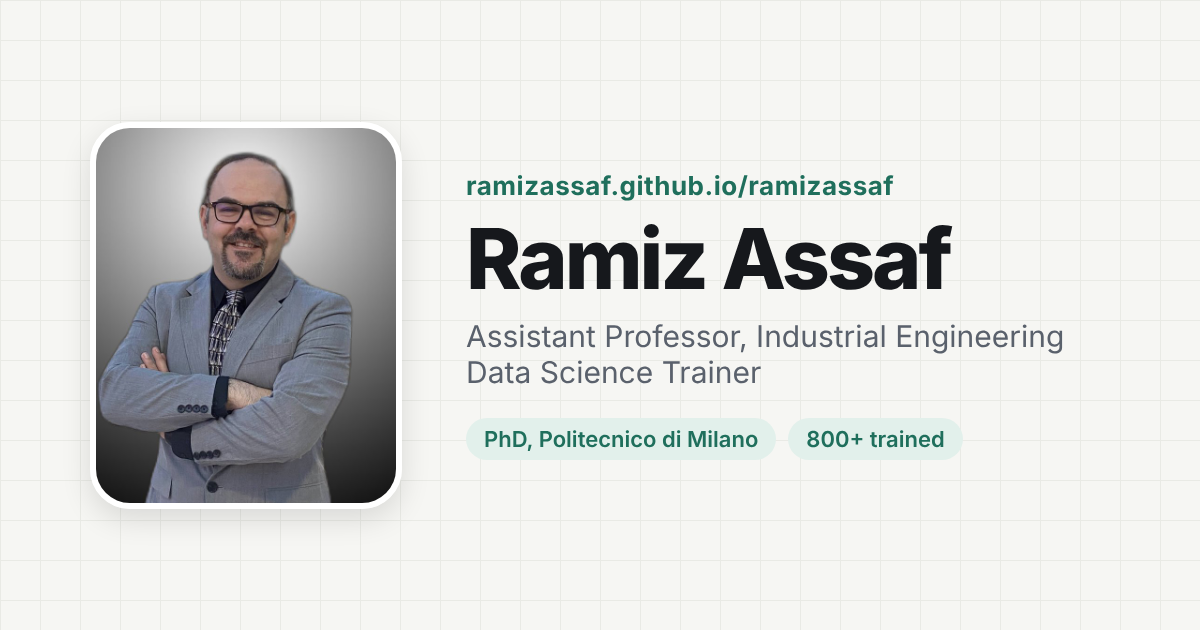
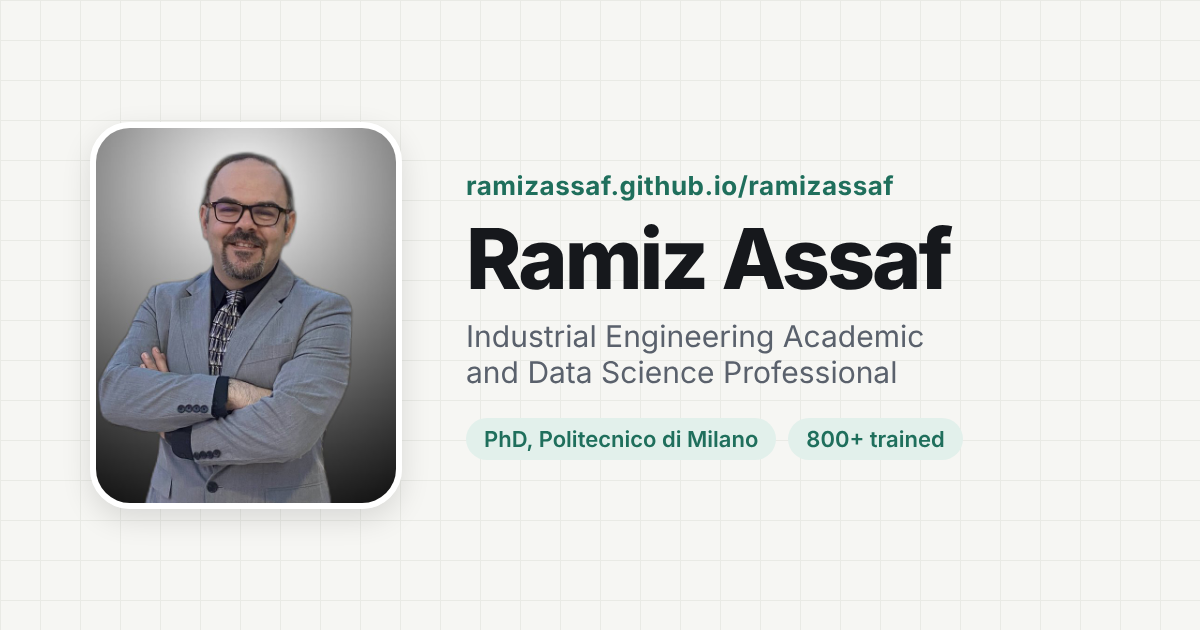
Add headline, defense committees, and Arabic slide deck
Claude-Session: https://claude.ai/code/session_01GDLQtFyegFYvjNTKCe8tyV

Changed region(s): [[0.37, 0.5127, 0.8942, 0.6333]]

diff --git a/index.html b/index.html
@@ -3,10 +3,10 @@
 <head>
 <meta charset="utf-8">
 <meta name="viewport" content="width=device-width, initial-scale=1">
-<title>Dr. Ramiz Assaf | Industrial Engineering Academic and Data Science Trainer</title>
+<title>Dr. Ramiz Assaf | Industrial Engineering Academic and Data Science Professional</title>
 <meta name="description" content="Dr. Ramiz Assaf, Assistant Professor of Industrial Engineering and Coordinator of the Master of Engineering Management program at An-Najah National University. PhD, Politecnico di Milano. Data science trainer.">
 <meta property="og:type" content="website">
-<meta property="og:title" content="Dr. Ramiz Assaf | Industrial Engineering Academic and Data Science Trainer">
+<meta property="og:title" content="Dr. Ramiz Assaf | Industrial Engineering Academic and Data Science Professional">
 <meta property="og:description" content="Assistant Professor at An-Najah National University. PhD, Politecnico di Milano. 800+ professionals trained in data analytics. Interactive CV with live demos.">
 <meta property="og:image" content="https://ramizassaf.github.io/ramizassaf/og.png">
 <meta property="og:url" content="https://ramizassaf.github.io/ramizassaf/">
@@ -283,8 +283,8 @@ input[type="range"] { width: 100%; accent-color: var(--accent); }
 @media (max-width: 600px) { .pub { grid-template-columns: 1fr auto; } .pub .yr { grid-column: 1 / -1; padding: 0; } }
 
 /* Supervision */
-.sup-stats { display: grid; grid-template-columns: repeat(3, 1fr); gap: 14px; margin-bottom: 20px; }
-@media (max-width: 600px) { .sup-stats { grid-template-columns: 1fr; } }
+.sup-stats { display: grid; grid-template-columns: repeat(4, 1fr); gap: 14px; margin-bottom: 20px; }
+@media (max-width: 860px) { .sup-stats { grid-template-columns: 1fr 1fr; } }
 .chips { display: flex; gap: 8px; flex-wrap: wrap; margin-bottom: 18px; }
 .chip { padding: 7px 14px; border-radius: 999px; border: 1px solid var(--line); background: var(--card); color: var(--muted); font: inherit; font-size: .86rem; font-weight: 500; cursor: pointer; }
 .chip:hover { color: var(--text); border-color: var(--accent); }
@@ -373,6 +373,7 @@ html[lang="ar"] body { font-family: "IBM Plex Sans Arabic", sans-serif; }
 h1, h2, h3, .num, .logo b, .tt, .big, .rv-score .big, .stat .num { font-family: "Changa", "IBM Plex Sans Arabic", sans-serif; }
 .kicker, .when, .chart text, .pub .yr, code { font-family: "IBM Plex Mono", monospace !important; }
 .hero::before { display: none; }
+.headline { margin: 10px 0 4px; font-family: "Changa", sans-serif; font-weight: 600; font-size: clamp(1.15rem, 2.4vw, 1.5rem); color: var(--text); line-height: 1.3; }
 .hl { background: linear-gradient(transparent 62%, var(--amber) 62%, var(--amber) 92%, transparent 92%); padding: 0 .08em; }
 .card, .stat, .tile, .icon-btn, .btn { border: 2px solid var(--edge); }
 .card { box-shadow: var(--shadow); border-radius: 14px; }
@@ -488,7 +489,7 @@ footer { border-top: 0; }
 
 <nav>
   <div class="container nav-inner">
-    <a class="logo" href="#home"><span class="logo-ic">⚙</span><span><b>Dr. Ramiz Assaf</b><small data-i18n="logo_s">Industrial Engineering · Data Science</small></span></a>
+    <a class="logo" href="#home"><span class="logo-ic">⚙</span><span><b>Dr. Ramiz Assaf</b><small data-i18n="logo_s">Industrial Engineering Academic · Data Science Professional</small></span></a>
     <div class="nav-links">
       <a href="#about" data-i18n="nav_about">About</a>
       <a href="#experience" data-i18n="nav_exp">Experience</a>
@@ -512,6 +513,7 @@ footer { border-top: 0; }
       <div>
         <span class="eyebrow"><span class="dot"></span><span data-i18n="open">PhD, Politecnico di Milano</span></span>
         <h1><span class="hl" data-i18n="name">Ramiz Assaf</span></h1>
+        <p class="headline" data-i18n="headline">Industrial Engineering Academic and Data Science Professional</p>
         <div class="typed"><span data-i18n="iam">I am</span> <b id="typed"></b><span class="caret"></span></div>
         <p class="lead" data-i18n="lead">Assistant Professor of Industrial Engineering and Coordinator of the Master of Engineering Management program at An-Najah National University. I train engineers and professionals in data analytics with Excel, Python, SQL, Tableau, and Alteryx.</p>
         <div class="cta">
@@ -543,7 +545,7 @@ footer { border-top: 0; }
       <a class="tile reveal" href="#about"><span class="ti">👤</span><span class="tt" data-i18n="t_about">About me</span><span class="ts" data-i18n="t_about_s">Profile, roles, and languages</span><span class="ta">→</span></a>
       <a class="tile reveal" href="#experience"><span class="ti">💼</span><span class="tt" data-i18n="t_exp">Experience</span><span class="ts" data-i18n="t_exp_s">14+ years in academia and training</span><span class="ta">→</span></a>
       <a class="tile reveal" href="#research"><span class="ti">📊</span><span class="tt" data-i18n="t_res">Research</span><span class="ts" data-i18n="t_res_s">1,849 citations · h-index 20</span><span class="ta">→</span></a>
-      <a class="tile reveal" href="#supervision"><span class="ti">🎓</span><span class="tt" data-i18n="t_sup">Thesis supervision</span><span class="ts" data-i18n="t_sup_s">16 theses supervised</span><span class="ta">→</span></a>
+      <a class="tile reveal" href="#supervision"><span class="ti">🎓</span><span class="tt" data-i18n="t_sup">Thesis supervision</span><span class="ts" data-i18n="t_sup_s">16 supervised · 20+ defense committees</span><span class="ta">→</span></a>
       <a class="tile reveal" href="#services"><span class="ti">🤝</span><span class="tt" data-i18n="t_svc">Services</span><span class="ts" data-i18n="t_svc_s">Training, consulting, collaboration</span><span class="ta">→</span></a>
       <a class="tile reveal" href="#projects"><span class="ti">🧩</span><span class="tt" data-i18n="t_proj">Projects</span><span class="ts" data-i18n="t_proj_s">Open-source tools and web apps</span><span class="ta">→</span></a>
       <a class="tile reveal" href="#games"><span class="ti">🎮</span><span class="tt" data-i18n="t_games">Interactive teaching</span><span class="ts" data-i18n="t_games_s">Dynamic HTML slides and 3 learning games</span><span class="ta">→</span></a>
@@ -677,12 +679,13 @@ footer { border-top: 0; }
     <a class="back" href="#home" data-i18n="back">← Home</a>
     <div class="sec-head reveal">
       <div class="kicker">supervision</div>
-      <h2 data-i18n="sup_h">Thesis supervision</h2>
-      <p data-i18n="sup_p">Theses I supervised or co-supervised at An-Najah National University, in AI adoption, operations, quality, and sustainability.</p>
+      <h2 data-i18n="sup_h">Thesis supervision and examination</h2>
+      <p data-i18n="sup_p">Theses I supervised or co-supervised at An-Najah National University, in AI adoption, operations, quality, and sustainability. I have also served on more than 20 master’s thesis defense committees.</p>
     </div>
     <div class="sup-stats">
       <div class="stat reveal"><div class="num" data-count="16" id="supN">16</div><div class="lbl" data-i18n="ss1">Theses supervised</div></div>
       <div class="stat reveal"><div class="num" data-count="6" id="supAI">6</div><div class="lbl" data-i18n="ss2">On AI and machine learning</div></div>
+      <div class="stat reveal"><div class="num" data-count="20" data-suffix="+">20+</div><div class="lbl" data-i18n="ss4">Master’s thesis defense committees</div></div>
       <div class="stat reveal"><div class="num" data-count="2017">2017</div><div class="lbl" data-i18n="ss3">Supervising since</div></div>
     </div>
     <div class="chips" id="supChips"></div>
@@ -1003,8 +1006,8 @@ const AR = {
   cdf_t: "تقريب دالة التوزيع الطبيعي التراكمية", cdf_s: "تقريب Φ(x) بقطع مستقيمة على الفترة [−4، 4]. كلما زادت القطع قلّ الخطأ. هذا العرض يستخدم نقاطاً متساوية التباعد، وورقتي البحثية تحسّن مواقعها بطريقة minimax.",
   segs: "عدد القطع", maxerr: "أقصى خطأ مطلق", argerr: "عند x =", cdf_note: "الاستخدام: حساب الاحتمالات بسرعة في الأنظمة المدمجة وجداول البيانات دون مكتبة إحصائية.",
   approx: "التقريب الخطي", error: "الخطأ",
-  nav_sup: "الإشراف", sup_h: "الإشراف على الرسائل", sup_p: "رسائل أشرفت أو شاركت في الإشراف عليها في جامعة النجاح الوطنية، في تبني الذكاء الاصطناعي والعمليات والجودة والاستدامة.",
-  ss1: "رسالة بإشرافي", ss2: "عن الذكاء الاصطناعي وتعلم الآلة", ss3: "أشرف منذ عام",
+  nav_sup: "الإشراف", sup_h: "الإشراف ومناقشة الرسائل", sup_p: "رسائل أشرفت أو شاركت في الإشراف عليها في جامعة النجاح الوطنية، في تبني الذكاء الاصطناعي والعمليات والجودة والاستدامة. كما شاركت في أكثر من 20 لجنة لمناقشة رسائل الماجستير.",
+  ss1: "رسالة بإشرافي", ss2: "عن الذكاء الاصطناعي وتعلم الآلة", ss3: "أشرف منذ عام", ss4: "لجنة مناقشة رسائل ماجستير",
   nav_games: "الألعاب", games_h: "التدريس التفاعلي", games_p: "شرائح محاضرات HTML تفاعلية وألعاب في المتصفح أبنيها لمساقاتي. كل مثال يولّد أرقاماً جديدة، فيتدرب الطلاب على الطريقة لا على الإجابة.",
   play: "العب ↗", games_note: "كل لعبة ملف HTML واحد. يُحفظ التقدم في متصفح اللاعب فقط.",
   g1_c: "تدريب تحليل البيانات", g1_d: "شجرة مهارات تنقل المتعلم من VLOOKUP إلى المصفوفات الديناميكية والتواريخ. 9 وحدات تغطي 54 دالة في Excel على أوراق عمل حية.",
@@ -1020,9 +1023,9 @@ const AR = {
   tc_h: "الاقتباسات حسب المحور", tc_s: "مجموع اقتباسات Google Scholar لأوراق كل محور.", vn_h: "أبرز جهات النشر", vn_s: "مجلات ومؤتمرات نُشرت فيها ورقتان أو أكثر.",
   ca_h: "أكثر الباحثين المشاركين", ca_s: "أوراق مشتركة. قوائم المؤلفين الطويلة مختصرة في Scholar، فالأعداد حد أدنى.",
   rv_p: "دورتي المنشورة للمهندسين والمحللين المنتقلين إلى العمل بالبيانات.", rv_n: "من 628 مراجعة",
-  slides: "شرائح تعريفية", back: "← الرئيسية", tiles_h: "استكشف", tiles_p: "اضغط على أي مربع لفتح القسم.", logo_s: "هندسة صناعية · علم البيانات",
+  slides: "شرائح تعريفية", back: "← الرئيسية", tiles_h: "استكشف", tiles_p: "اضغط على أي مربع لفتح القسم.", logo_s: "أكاديمي هندسة صناعية · متخصص علم بيانات", headline: "أكاديمي في الهندسة الصناعية ومتخصص في علم البيانات",
   t_about: "نبذة عني", t_about_s: "الملف الشخصي والأدوار واللغات", t_exp: "الخبرات", t_exp_s: "أكثر من 14 عاماً في الجامعات والتدريب",
-  t_res: "البحث العلمي", t_res_s: "1,849 اقتباس · h-index 20", t_sup: "الإشراف على الرسائل", t_sup_s: "16 رسالة بإشرافي",
+  t_res: "البحث العلمي", t_res_s: "1,849 اقتباس · h-index 20", t_sup: "الإشراف على الرسائل", t_sup_s: "16 رسالة بإشرافي · أكثر من 20 لجنة مناقشة",
   t_svc: "الخدمات", t_svc_s: "تدريب واستشارات وتعاون بحثي", t_proj: "المشاريع", t_proj_s: "أدوات وتطبيقات مفتوحة المصدر",
   t_games: "التدريس التفاعلي", t_games_s: "شرائح HTML تفاعلية و3 ألعاب تعلّم", t_skills: "المهارات", t_skills_s: "البيانات والهندسة والتدريس",
   t_contact: "تواصل", t_contact_s: "البريد وLinkedIn وScholar", t_demo: "عروض حية", t_demo_s: "أدوات نقطة التعادل والتوزيع الطبيعي",
@@ -1544,7 +1547,7 @@ const strip = h => String(h).replace(/<[^>]+>/g, "").replace(/\s+/g, " ").trim()
 function cvMarkdown() {
   const L = [];
   L.push("# Dr. Ramiz Assaf", "",
-    "Assistant Professor of Industrial Engineering | Coordinator, Master of Engineering Management | Data Science Trainer", "",
+    "Industrial Engineering Academic and Data Science Professional", "", "Assistant Professor of Industrial Engineering | Coordinator, Master of Engineering Management | Data Science Trainer", "",
     "Nablus, Palestine | ramizassaf@najah.edu | ramizassaf@gmail.com", "",
     "LinkedIn: https://www.linkedin.com/in/ramiz-assaf-529610353", "",
     "Google Scholar: https://scholar.google.com/citations?user=yDDnd50AAAAJ", "",
@@ -1571,7 +1574,7 @@ function cvMarkdown() {
   L.push("", "## Research", "", `- Google Scholar: 1,849 citations, h-index 20, i10-index 26, ${PUBS.length} publications`, "", "### Selected Publications", "");
   const sel = [...PUBS].sort((a, b) => b.c - a.c).slice(0, 10);
   sel.forEach(x => L.push(`- ${x.a.replace(", ...", " et al.")} (${x.y || "n.d."}). ${x.t}. ${x.v}.`));
-  L.push("", "## Thesis Supervision", "", `- Supervised or co-supervised ${THESES.length} master's theses at An-Najah National University`);
+  L.push("", "## Thesis Supervision", "", `- Supervised or co-supervised ${THESES.length} master's theses at An-Najah National University`, "- Served on more than 20 master's thesis defense committees");
   THESES.slice(0, 8).forEach(t => L.push(`- ${t.t}${t.year ? " (" + t.year + ")" : ""}`));
   L.push("", "## Teaching Innovation", "",
     "- Dynamic HTML lecture slides (built with Claude): Week 1, Excel for Engineering Economy, 29 slides with worked examples and quizzes that generate new numbers on demand",
@@ -1595,31 +1598,32 @@ function deckHTML() {
   const e = t => String(t).replace(/&/g, "&amp;").replace(/</g, "&lt;");
   let photo = new URL("photo.jpg", location.href).href;
   try { const im = document.querySelector('img[src="photo.jpg"]'); const c = document.createElement("canvas"); c.width = im.naturalWidth; c.height = im.naturalHeight; c.getContext("2d").drawImage(im, 0, 0); photo = c.toDataURL("image/jpeg", 0.85); } catch (err) { /* keep URL */ }
+  const AR = lang === "ar", T = (en, ar) => AR ? ar : en, L = AR ? "ar" : "en";
   const top = [...PUBS].sort((a, b) => b.c - a.c).slice(0, 3);
-  const themes = Object.keys(RTHEMES).map(k => [RTHEMES[k].en, PUBS.filter(p => p.th.includes(k)).length]).sort((a, b) => b[1] - a[1]).slice(0, 6);
+  const themes = Object.keys(RTHEMES).map(k => [RTHEMES[k][L], PUBS.filter(p => p.th.includes(k)).length]).sort((a, b) => b[1] - a[1]).slice(0, 6);
   const mx = themes[0][1];
   const S = [];
-  S.push(`<section class="s title"><div class="tl"><div class="pill">Industrial Engineering · Data Science</div><h1><span class="hl">Dr. Ramiz Assaf</span></h1><p class="big">Assistant Professor of Industrial Engineering<br>Coordinator, Master of Engineering Management<br>An-Najah National University</p></div><img src="${photo}" alt=""></section>`);
-  S.push(`<section class="s"><h2>Who I am</h2><ul class="lst"><li>Industrial engineer and data science trainer based in Nablus, Palestine</li><li>PhD, Politecnico di Milano. MEng, Engineering Management. BSc, Industrial Engineering</li><li>14+ years teaching at universities in Palestine and Saudi Arabia</li><li>Goal: bridge engineering and data-driven decision making</li></ul></section>`);
-  S.push(`<section class="s"><h2>By the numbers</h2><div class="kp"><div><b>14+</b>years teaching</div><div><b>800+</b>professionals trained</div><div><b>94%</b>training satisfaction</div><div><b>1,849</b>citations</div><div><b>${PUBS.length}</b>publications</div><div><b>${THESES.length}</b>theses supervised</div></div></section>`);
-  S.push(`<section class="s"><h2>Career path</h2><div class="tline">${EXP.slice().sort((a, b) => startKey(a.when) - startKey(b.when)).map(x => `<div><span>${e(x.when)}</span><b>${e(x.org)}</b><small>${e(x.roles[0][0])}</small></div>`).join("")}</div></section>`);
-  S.push(`<section class="s"><h2>Academic leadership at An-Najah</h2><ul class="lst"><li>Assistant Professor, Industrial Engineering (2022 to present)</li><li>Coordinator, Master of Engineering Management: academic planning, advising, and program development</li><li>Associate Editor, An-Najah University Journal for Research B (Natural Sciences)</li><li>Former NCAAA quality coordinator at the University of Business and Technology, Jeddah</li></ul></section>`);
-  S.push(`<section class="s"><h2>Training impact</h2><div class="kp"><div><b>800+</b>Udacity learners, MENA</div><div><b>94%</b>post-training satisfaction</div><div><b>~200</b>Correlation One students</div><div><b>4.8/5</b>DataCamp course, 628 reviews</div></div><p class="note">Excel · SQL · Python · Tableau · Alteryx</p></section>`);
-  S.push(`<section class="s"><h2>Research at a glance</h2><div class="kp k3"><div><b>1,849</b>citations</div><div><b>20</b>h-index</div><div><b>26</b>i10-index</div></div><div class="bars">${themes.map(([n, v]) => `<div><span>${e(n)}</span><i style="width:${v / mx * 100}%"></i><b>${v}</b></div>`).join("")}</div></section>`);
-  S.push(`<section class="s"><h2>Most cited work</h2>${top.map(x => `<div class="pub"><b>${x.c}</b><div><strong>${e(x.t)}</strong><small>${e(x.v)}, ${x.y}</small></div></div>`).join("")}</section>`);
-  S.push(`<section class="s"><h2>Thesis supervision</h2><div class="kp k3"><div><b>${THESES.length}</b>theses</div><div><b>${THESES.filter(x => x.th.includes("ai")).length}</b>on AI and ML</div><div><b>2017</b>supervising since</div></div><ul class="lst sm">${THESES.slice(0, 4).map(x => `<li>${e(x.t)}</li>`).join("")}</ul></section>`);
-  S.push(`<section class="s"><h2>Teaching innovation</h2><div class="cards"><div><b>Excel Skill Tree</b>9 modules, 54 functions, XP and ranks</div><div><b>Labor Analysis Lab</b>10 levels with fading guidance</div><div><b>Financial Decisions Lab</b>5 classroom games on financial statements</div><div><b>Dynamic HTML lecture slides</b>New numbers on every click, step-by-step solutions</div><div><b>IE Program Guide</b>Bilingual site for future IE students</div></div></section>`);
-  S.push(`<section class="s"><h2>Open-source tools</h2><ul class="lst"><li>Break-even location finder: cheapest option at every volume</li><li>Normal CDF piecewise-linear approximation with minimax optimisation</li><li>Engineering economy analysis: present, future, and annual worth, IRR</li><li>A/B test and exploratory data analysis notebooks</li></ul></section>`);
-  S.push(`<section class="s"><h2>Services</h2><div class="cards">${["Data analytics training", "Online teaching and course design", "Operations and process improvement", "Engineering economics and decision analysis", "Quality and accreditation consulting", "Research collaboration", "Thesis and research mentoring", "Gamified learning design"].map(x => `<div><b>${x}</b></div>`).join("")}</div></section>`);
-  S.push(`<section class="s"><h2>Education and certifications</h2><ul class="lst sm">${EDU.map(x => `<li><b>${e(x.d.en)}</b>, ${e(x.s.en)} (${e(x.y)})</li>`).join("")}${CERTS.filter(x => x.g === "teach").slice(0, 2).concat(CERTS.filter(x => x.v)).map(x => `<li>${e(x.t)}, ${e(x.i.en)}</li>`).join("")}</ul></section>`);
-  S.push(`<section class="s title end"><div class="tl"><h1><span class="hl">Let's work together</span></h1><p class="big">ramizassaf@najah.edu<br>linkedin.com/in/ramiz-assaf-529610353<br>ramizassaf.github.io/ramizassaf</p></div><img src="${photo}" alt=""></section>`);
-  return `<!doctype html><html lang="en"><head><meta charset="utf-8"><meta name="viewport" content="width=device-width,initial-scale=1"><title>Dr. Ramiz Assaf | Slides</title>
+  S.push(`<section class="s title"><div class="tl"><div class="pill">${T("Industrial Engineering · Data Science", "الهندسة الصناعية · علم البيانات")}</div><h1><span class="hl">${T("Dr. Ramiz Assaf", "د. رامز عساف")}</span></h1><p class="big"><b>${T("Industrial Engineering Academic and Data Science Professional", "أكاديمي في الهندسة الصناعية ومتخصص في علم البيانات")}</b><br>${T("Assistant Professor of Industrial Engineering<br>Coordinator, Master of Engineering Management<br>An-Najah National University", "أستاذ مساعد في الهندسة الصناعية<br>منسق برنامج ماجستير الإدارة الهندسية<br>جامعة النجاح الوطنية")}</p></div><img src="${photo}" alt=""></section>`);
+  S.push(`<section class="s"><h2>${T("Who I am", "من أنا")}</h2><ul class="lst">${(AR ? ["مهندس صناعي ومدرب في علم البيانات من نابلس، فلسطين", "دكتوراه من جامعة البوليتكنيك في ميلانو، وماجستير في الإدارة الهندسية، وبكالوريوس في الهندسة الصناعية", "أكثر من 14 عاماً في التدريس الجامعي في فلسطين والسعودية", "هدفي: ربط الهندسة باتخاذ القرار المبني على البيانات"] : ["Industrial engineer and data science trainer based in Nablus, Palestine", "PhD, Politecnico di Milano. MEng, Engineering Management. BSc, Industrial Engineering", "14+ years teaching at universities in Palestine and Saudi Arabia", "Goal: bridge engineering and data-driven decision making"]).map(x => `<li>${x}</li>`).join("")}</ul></section>`);
+  S.push(`<section class="s"><h2>${T("By the numbers", "بالأرقام")}</h2><div class="kp"><div><b>14+</b>${T("years teaching", "سنة في التدريس")}</div><div><b>800+</b>${T("professionals trained", "متدرب محترف")}</div><div><b>1,849</b>${T("citations", "اقتباس")}</div><div><b>${PUBS.length}</b>${T("publications", "منشور")}</div><div><b>${THESES.length}</b>${T("theses supervised", "رسالة بإشرافي")}</div><div><b>20+</b>${T("defense committees", "لجنة مناقشة")}</div></div></section>`);
+  S.push(`<section class="s"><h2>${T("Career path", "المسار المهني")}</h2><div class="tline">${EXP.slice().sort((a, b) => startKey(a.when) - startKey(b.when)).map(x => `<div><span dir="ltr">${e(x.when)}</span><b>${e(x.org)}</b><small>${e(AR ? x.roles[0][1] : x.roles[0][0])}</small></div>`).join("")}</div></section>`);
+  S.push(`<section class="s"><h2>${T("Academic leadership at An-Najah", "القيادة الأكاديمية في جامعة النجاح")}</h2><ul class="lst">${(AR ? ["أستاذ مساعد في الهندسة الصناعية (منذ 2022)", "منسق برنامج ماجستير الإدارة الهندسية: التخطيط الأكاديمي والإرشاد وتطوير البرنامج", "محرر مشارك في مجلة جامعة النجاح للأبحاث (ب) للعلوم الطبيعية", "منسق جودة سابق لاعتماد NCAAA في جامعة الأعمال والتكنولوجيا، جدة"] : ["Assistant Professor, Industrial Engineering (2022 to present)", "Coordinator, Master of Engineering Management: academic planning, advising, and program development", "Associate Editor, An-Najah University Journal for Research B (Natural Sciences)", "Former NCAAA quality coordinator at the University of Business and Technology, Jeddah"]).map(x => `<li>${x}</li>`).join("")}</ul></section>`);
+  S.push(`<section class="s"><h2>${T("Training impact", "أثر التدريب")}</h2><div class="kp"><div><b>800+</b>${T("Udacity learners, MENA", "متعلم في Udacity بالمنطقة")}</div><div><b>94%</b>${T("post-training satisfaction", "رضا بعد التدريب")}</div><div><b>~200</b>${T("Correlation One students", "طالب في Correlation One")}</div><div><b>4.8/5</b>${T("DataCamp course, 628 reviews", "مساق DataCamp، 628 مراجعة")}</div></div><p class="note" dir="ltr">Excel · SQL · Python · Tableau · Alteryx</p></section>`);
+  S.push(`<section class="s"><h2>${T("Research at a glance", "البحث العلمي باختصار")}</h2><div class="kp k3"><div><b>1,849</b>${T("citations", "اقتباس")}</div><div><b>20</b>h-index</div><div><b>26</b>i10-index</div></div><div class="bars">${themes.map(([n, v]) => `<div><span>${e(n)}</span><i style="width:${v / mx * 100}%"></i><b>${v}</b></div>`).join("")}</div></section>`);
+  S.push(`<section class="s"><h2>${T("Most cited work", "الأبحاث الأكثر اقتباساً")}</h2>${top.map(x => `<div class="pub"><b>${x.c}</b><div dir="ltr"><strong>${e(x.t)}</strong><small>${e(x.v)}, ${x.y}</small></div></div>`).join("")}</section>`);
+  S.push(`<section class="s"><h2>${T("Thesis supervision and examination", "الإشراف ومناقشة الرسائل")}</h2><div class="kp"><div><b>${THESES.length}</b>${T("theses supervised", "رسالة بإشرافي")}</div><div><b>20+</b>${T("defense committees", "لجنة مناقشة")}</div><div><b>${THESES.filter(x => x.th.includes("ai")).length}</b>${T("on AI and ML", "عن الذكاء الاصطناعي")}</div></div><ul class="lst sm" dir="ltr">${THESES.slice(0, 3).map(x => `<li>${e(x.t)}</li>`).join("")}</ul></section>`);
+  S.push(`<section class="s"><h2>${T("Teaching innovation", "الابتكار في التدريس")}</h2><div class="cards">${(AR ? [["Excel Skill Tree", "9 وحدات و54 دالة ونقاط ورتب"], ["Labor Analysis Lab", "10 مستويات بتوجيه متدرّج"], ["Financial Decisions Lab", "5 ألعاب صفية في القوائم المالية"], ["شرائح محاضرات HTML تفاعلية", "أرقام جديدة مع كل نقرة وحلول خطوة بخطوة"], ["دليل برنامج الهندسة الصناعية", "موقع ثنائي اللغة لطلبة التوجيهي"]] : [["Excel Skill Tree", "9 modules, 54 functions, XP and ranks"], ["Labor Analysis Lab", "10 levels with fading guidance"], ["Financial Decisions Lab", "5 classroom games on financial statements"], ["Dynamic HTML lecture slides", "New numbers on every click, step-by-step solutions"], ["IE Program Guide", "Bilingual site for future IE students"]]).map(([a, b]) => `<div><b>${a}</b>${b}</div>`).join("")}</div></section>`);
+  S.push(`<section class="s"><h2>${T("Open-source tools", "أدوات مفتوحة المصدر")}</h2><ul class="lst">${(AR ? ["أداة نقطة التعادل لاختيار الموقع: البديل الأرخص عند كل حجم", "تقريب دالة التوزيع الطبيعي التراكمية خطياً مع تحسين minimax", "تحليل الاقتصاد الهندسي: القيمة الحالية والمستقبلية والسنوية ومعدل العائد الداخلي", "دفاتر تحليل اختبارات A/B والتحليل الاستكشافي للبيانات"] : ["Break-even location finder: cheapest option at every volume", "Normal CDF piecewise-linear approximation with minimax optimisation", "Engineering economy analysis: present, future, and annual worth, IRR", "A/B test and exploratory data analysis notebooks"]).map(x => `<li>${x}</li>`).join("")}</ul></section>`);
+  S.push(`<section class="s"><h2>${T("Services", "الخدمات")}</h2><div class="cards">${(AR ? ["تدريب تحليل البيانات", "التدريس الإلكتروني وتصميم المساقات", "تحسين العمليات والإنتاج", "الاقتصاد الهندسي وتحليل القرار", "استشارات الجودة والاعتماد", "التعاون البحثي", "الإرشاد البحثي والإشراف", "تصميم التعلّم بأسلوب الألعاب"] : ["Data analytics training", "Online teaching and course design", "Operations and process improvement", "Engineering economics and decision analysis", "Quality and accreditation consulting", "Research collaboration", "Thesis and research mentoring", "Gamified learning design"]).map(x => `<div><b>${x}</b></div>`).join("")}</div></section>`);
+  S.push(`<section class="s"><h2>${T("Education and certifications", "التعليم والشهادات")}</h2><ul class="lst sm">${EDU.map(x => `<li><b>${e(x.d[L])}</b>، ${e(x.s[L])} (<span dir="ltr">${e(x.y)}</span>)</li>`.replace("، ", AR ? "، " : ", ")).join("")}${CERTS.filter(x => x.g === "teach").slice(0, 2).concat(CERTS.filter(x => x.v)).map(x => `<li><span dir="ltr">${e(x.t)}</span>${AR ? "، " : ", "}${e(x.i[L])}</li>`).join("")}</ul></section>`);
+  S.push(`<section class="s title end"><div class="tl"><h1><span class="hl">${T("Let's work together", "لنعمل معاً")}</span></h1><p class="big" dir="ltr">ramizassaf@najah.edu<br>linkedin.com/in/ramiz-assaf-529610353<br>ramizassaf.github.io/ramizassaf</p></div><img src="${photo}" alt=""></section>`);
+  return `<!doctype html><html lang="${L}" dir="${AR ? "rtl" : "ltr"}"><head><meta charset="utf-8"><meta name="viewport" content="width=device-width,initial-scale=1"><title>${T("Dr. Ramiz Assaf | Slides", "د. رامز عساف | شرائح تعريفية")}</title>
 <link href="https://fonts.googleapis.com/css2?family=Changa:wght@500;700;800&family=IBM+Plex+Sans+Arabic:wght@400;600&family=IBM+Plex+Mono:wght@500&display=swap" rel="stylesheet">
 <style>
 :root{--bg:#F3F6F8;--ink:#132A3E;--ink2:#3E5A72;--blue:#1E5A8C;--amber:#FFB020;--grid:rgba(30,90,140,.08)}
 *{box-sizing:border-box}html,body{margin:0;height:100%;overflow:hidden;background:#0D1B28;font-family:"IBM Plex Sans Arabic",sans-serif;color:var(--ink)}
 .deck{position:fixed;inset:0;display:grid;place-items:center}
-.s{display:none;width:min(100vw,177.78vh);height:min(56.25vw,100vh);background:var(--bg);background-image:linear-gradient(var(--grid) 1px,transparent 1px),linear-gradient(90deg,var(--grid) 1px,transparent 1px);background-size:40px 40px;padding:5% 7% 8%;position:relative;border-left:14px solid var(--amber);font-size:min(2.1vw,3.7vh)}
+.s{display:none;width:min(100vw,177.78vh);height:min(56.25vw,100vh);background:var(--bg);background-image:linear-gradient(var(--grid) 1px,transparent 1px),linear-gradient(90deg,var(--grid) 1px,transparent 1px);background-size:40px 40px;padding:5% 7% 8%;position:relative;border-inline-start:14px solid var(--amber);font-size:min(2.1vw,3.7vh)}
 .s.on{display:block;animation:in .35s ease}@keyframes in{from{opacity:0;transform:translateY(12px)}}
 h1,h2{font-family:Changa,sans-serif;margin:0 0 .6em;line-height:1.1}h1{font-size:3.2em}h2{font-size:2.1em;color:var(--ink)}
 .hl{background:linear-gradient(transparent 60%,var(--amber) 60%,var(--amber) 92%,transparent 92%)}
@@ -1627,32 +1631,32 @@ h1,h2{font-family:Changa,sans-serif;margin:0 0 .6em;line-height:1.1}h1{font-size
 .title img{height:78%;aspect-ratio:4/5;object-fit:cover;object-position:top;border-radius:20px;border:4px solid var(--ink);box-shadow:10px 10px 0 var(--amber)}
 .pill{display:inline-block;background:var(--ink);color:#fff;border-radius:999px;padding:.35em 1em;font-size:.8em;margin-bottom:1em}
 .big{font-size:1.15em;color:var(--ink2);line-height:1.5}
-.lst{font-size:1.15em;line-height:1.55;padding-left:1.1em}.lst li{margin:.35em 0}.lst li::marker{color:var(--amber)}.lst.sm{font-size:.95em}
+.lst{font-size:1.15em;line-height:1.55;padding-inline-start:1.1em}[dir=rtl] .lst[dir=ltr]{padding-inline-start:1.1em}.lst li{margin:.35em 0}.lst li::marker{color:var(--amber)}.lst.sm{font-size:.95em}
 .kp{display:grid;grid-template-columns:repeat(3,1fr);gap:1em}.kp.k3{margin-bottom:1.2em}
-.kp div{background:#fff;border:3px solid var(--ink);border-left:10px solid var(--amber);border-radius:14px;padding:.8em 1em;color:var(--ink2)}
+.kp div{background:#fff;border:3px solid var(--ink);border-inline-start:10px solid var(--amber);border-radius:14px;padding:.8em 1em;color:var(--ink2)}
 .kp b{display:block;font-family:Changa;font-size:2.2em;color:var(--blue);line-height:1.1}
 .tline{display:grid;grid-template-columns:repeat(${EXP.length},1fr);gap:.6em;border-top:4px solid var(--ink);padding-top:1em;margin-top:2em}
-.tline div{position:relative;font-size:.78em}.tline div::before{content:"";position:absolute;top:-1.55em;left:0;width:1em;height:1em;border-radius:50%;background:var(--amber);border:3px solid var(--ink)}
+.tline div{position:relative;font-size:.78em}.tline div::before{content:"";position:absolute;top:-1.55em;inset-inline-start:0;width:1em;height:1em;border-radius:50%;background:var(--amber);border:3px solid var(--ink)}
 .tline span{font-family:"IBM Plex Mono";color:var(--blue);display:block}.tline b{display:block;font-size:1.05em}.tline small{color:var(--ink2)}
-.bars div{display:grid;grid-template-columns:38% 1fr 3em;gap:.6em;align-items:center;margin:.35em 0;font-size:.9em}.bars i{height:.8em;background:var(--blue);border-radius:0 6px 6px 0}.bars b{text-align:right}
+.bars div{display:grid;grid-template-columns:38% 1fr 3em;gap:.6em;align-items:center;margin:.35em 0;font-size:.9em}.bars i{height:.8em;background:var(--blue);border-radius:6px}.bars b{text-align:end}
 .pub{display:flex;gap:1em;align-items:flex-start;background:#fff;border:3px solid var(--ink);border-radius:14px;padding:.55em 1em;margin:.5em 0;font-size:.92em}
 .pub>b{font-family:Changa;font-size:2em;color:var(--blue);min-width:2.4em}.pub strong{display:block;font-size:.95em}.pub small{color:var(--ink2);font-size:.8em}
-.cards{display:grid;grid-template-columns:repeat(2,1fr);gap:.8em}.cards div{background:#fff;border:3px solid var(--ink);border-left:10px solid var(--amber);border-radius:14px;padding:.7em 1em;font-size:.9em;color:var(--ink2)}.cards b{display:block;color:var(--ink);font-size:1.1em}
+.cards{display:grid;grid-template-columns:repeat(2,1fr);gap:.8em}.cards div{background:#fff;border:3px solid var(--ink);border-inline-start:10px solid var(--amber);border-radius:14px;padding:.7em 1em;font-size:.9em;color:var(--ink2)}.cards b{display:block;color:var(--ink);font-size:1.1em}
 .note{font-family:"IBM Plex Mono";color:var(--blue);margin-top:1.4em}
 .ui{position:fixed;bottom:12px;left:50%;transform:translateX(-50%);display:flex;gap:6px;align-items:center;background:#1C3448;color:#fff;border-radius:999px;padding:6px;z-index:9;font:600 13px "IBM Plex Sans Arabic"}
 .ui button{border:0;background:transparent;color:#fff;font:inherit;padding:6px 12px;border-radius:999px;cursor:pointer}.ui button:hover{background:var(--amber);color:var(--ink)}
 .bar{position:fixed;top:0;left:0;height:4px;background:var(--amber);z-index:9;transition:width .3s}
 @media print{html,body{overflow:visible;height:auto;background:#fff}.deck{position:static;display:block}.s,.title{display:block!important;page-break-after:always;width:100%;height:auto;aspect-ratio:16/9}.title{display:flex!important}.ui,.bar{display:none}@page{size:landscape;margin:0}}
 </style></head><body><div class="bar" id="bar"></div><div class="deck">${S.join("")}</div>
-<div class="ui"><button id="pv">◀</button><span id="ct"></span><button id="nx">▶</button><button id="fs">⛶ Full screen</button><button id="sv">↓ Save</button></div>
+<div class="ui"><button id="pv">◀</button><span id="ct"></span><button id="nx">▶</button><button id="fs">⛶ ${T("Full screen", "ملء الشاشة")}</button><button id="sv">↓ ${T("Save", "حفظ")}</button></div>
 <script>
 const s=[...document.querySelectorAll(".s")];let i=0;
 function go(n){i=Math.max(0,Math.min(s.length-1,n));s.forEach((x,k)=>x.classList.toggle("on",k===i));ct.textContent=(i+1)+" / "+s.length;bar.style.width=((i+1)/s.length*100)+"%"}
 pv.onclick=()=>go(i-1);nx.onclick=()=>go(i+1);
 fs.onclick=()=>document.fullscreenElement?document.exitFullscreen():document.documentElement.requestFullscreen();
-sv.onclick=()=>{const a=document.createElement("a");a.href=URL.createObjectURL(new Blob(["<!doctype html>"+document.documentElement.outerHTML],{type:"text/html"}));a.download="Ramiz_Assaf_Slides.html";a.click()};
-addEventListener("keydown",e=>{if(["ArrowRight","PageDown"," "].includes(e.key))go(i+1);if(["ArrowLeft","PageUp"].includes(e.key))go(i-1);if(e.key==="f")fs.onclick();if(e.key==="Home")go(0);if(e.key==="End")go(s.length-1)});
-document.querySelector(".deck").addEventListener("click",e=>go(e.clientX>innerWidth/2?i+1:i-1));
+sv.onclick=()=>{const a=document.createElement("a");a.href=URL.createObjectURL(new Blob(["<!doctype html>"+document.documentElement.outerHTML],{type:"text/html"}));a.download="${AR ? "Ramiz_Assaf_Slides_AR.html" : "Ramiz_Assaf_Slides.html"}";a.click()};
+addEventListener("keydown",e=>{const fwd=rtl?"ArrowLeft":"ArrowRight",bwd=rtl?"ArrowRight":"ArrowLeft";if([fwd,"PageDown"," "].includes(e.key))go(i+1);if([bwd,"PageUp"].includes(e.key))go(i-1);if(e.key==="f")fs.onclick();if(e.key==="Home")go(0);if(e.key==="End")go(s.length-1)});
+const rtl=document.dir==="rtl";document.querySelector(".deck").addEventListener("click",e=>go((e.clientX>innerWidth/2)!==rtl?i+1:i-1));
 go(0);
 <\/script></body></html>`;
 }
